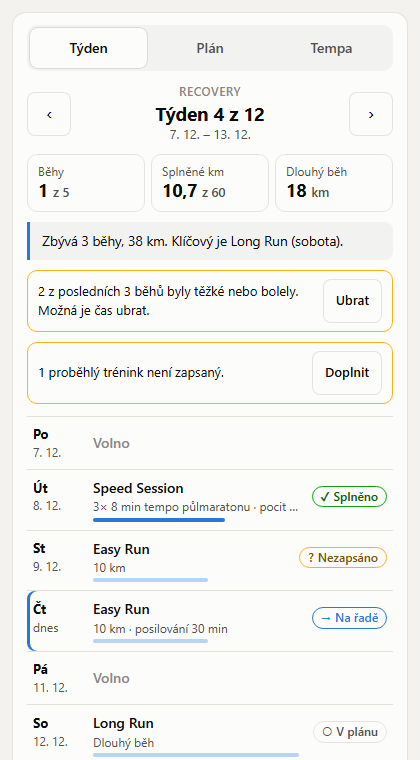
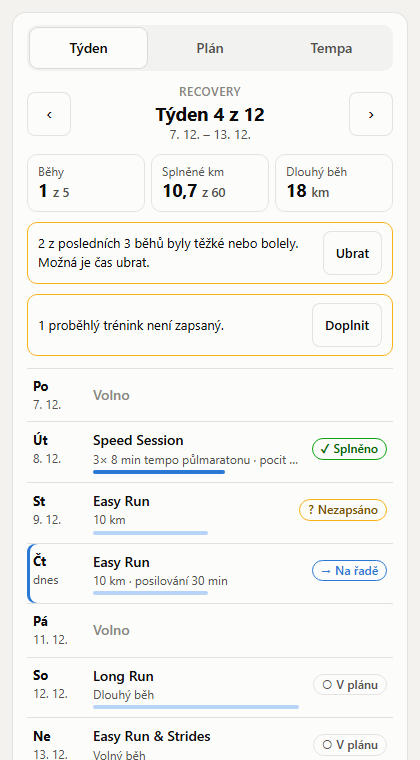
Remove the summary line from the week card too

diff --git a/src/connector/views.ts b/src/connector/views.ts
@@ -129,11 +129,10 @@ export function weekView(ws: Workspace, input: z.infer<typeof weekViewInput>, no
   const fatigue = start === weekStartOf(c.today) ? fatigueOf(ws.notes, c.today) : null;
   const label = !mapping ? 'mimo plán' : mapping.sourceWeek == null ? 'pauza' : `týden ${mapping.sourceWeek} z ${template?.weeks.length ?? '?'}`;
   const next = days.flatMap((d) => d.workouts).find((w) => w.date >= c.today && w.status === 'scheduled' && w.type !== 'rest');
-  const summary = weekSummary(days.flatMap((d) => d.workouts), c.today);
   return {
     ok: true,
-    text: `Zobrazen týden od ${start} (${label}): splněno ${stats.unitsDone} z ${stats.units} běhů, tj. ${String(stats.doneKm).replace('.', ',')} z ${String(stats.plannedKmMin).replace('.', ',')}${stats.plannedKmMax !== stats.plannedKmMin ? `–${String(stats.plannedKmMax).replace('.', ',')}` : ''} km podle plánu (ne naměřeno).${next ? ` Nejbližší jednotka: ${next.title} ${next.date}.` : ''}${stats.unrecorded ? ` Nezapsáno: ${stats.unrecorded} proběhlých běhů; nabídni doplnění (podle Stravy, pokud je připojená) jedním voláním set_statuses.` : ''}${summary.length ? ` Shrnutí v kartě: ${summary.join(' ')}` : ''}${fatigue ? ` Únava: ${fatigue.text} Zeptej se, jak se cítí, a nabídni lehčí zbytek týdne; rozpis měň jen se souhlasem${fatigue.kind === 'pain' ? ', při bolesti doporuč ubrat a nechat se vyšetřit' : ''}.` : ''}`,
-    data: { view: 'week', planName: c.planName, today: c.today, weekStart: start, label, daysToRace: ws.profile.raceDate && ws.profile.raceDate >= c.today ? diffDays(ws.profile.raceDate, c.today) : null, fatigue, summary, hasPrev: c.activation.mapping.some((m) => m.weekStart < start), hasNext: c.activation.mapping.some((m) => m.weekStart > start), phase: source?.phase ?? null, authorNote: source?.note ?? null, isCurrent: start === weekStartOf(c.today), days, stats, nextId: next?.id ?? null },
+    text: `Zobrazen týden od ${start} (${label}): splněno ${stats.unitsDone} z ${stats.units} běhů, tj. ${String(stats.doneKm).replace('.', ',')} z ${String(stats.plannedKmMin).replace('.', ',')}${stats.plannedKmMax !== stats.plannedKmMin ? `–${String(stats.plannedKmMax).replace('.', ',')}` : ''} km podle plánu (ne naměřeno).${next ? ` Nejbližší jednotka: ${next.title} ${next.date}.` : ''}${stats.unrecorded ? ` Nezapsáno: ${stats.unrecorded} proběhlých běhů; nabídni doplnění (podle Stravy, pokud je připojená) jedním voláním set_statuses.` : ''}${fatigue ? ` Únava: ${fatigue.text} Zeptej se, jak se cítí, a nabídni lehčí zbytek týdne; rozpis měň jen se souhlasem${fatigue.kind === 'pain' ? ', při bolesti doporuč ubrat a nechat se vyšetřit' : ''}.` : ''}`,
+    data: { view: 'week', planName: c.planName, today: c.today, weekStart: start, label, daysToRace: ws.profile.raceDate && ws.profile.raceDate >= c.today ? diffDays(ws.profile.raceDate, c.today) : null, fatigue, hasPrev: c.activation.mapping.some((m) => m.weekStart < start), hasNext: c.activation.mapping.some((m) => m.weekStart > start), phase: source?.phase ?? null, authorNote: source?.note ?? null, isCurrent: start === weekStartOf(c.today), days, stats, nextId: next?.id ?? null },
   };
 }
 
@@ -358,30 +357,6 @@ export function resultView(ws: Workspace, input: z.infer<typeof resultViewInput>
       score, estimate, verdict: { distance, pace, lapsInTarget: inTarget, steady },
     },
   };
-}
-
-// ---------- Shrnutí karet ----------
-
-const DOW_CS = ['pondělí', 'úterý', 'středa', 'čtvrtek', 'pátek', 'sobota', 'neděle'];
-const kmText = (n: number) => String(Math.round(n * 10) / 10).replace('.', ',');
-const plural = (n: number, one: string, few: string, many: string) => (n === 1 ? one : n > 1 && n < 5 ? few : many);
-type Card = ReturnType<typeof workoutCard>;
-
-/** Týden: co zbývá a který trénink je klíčový. */
-function weekSummary(cards: Card[], today: string): string[] {
-  const runs = cards.filter((w) => !NOT_RUN.has(w.type));
-  const left = runs.filter((w) => w.status === 'scheduled' && w.date >= today);
-  if (!runs.length) return [];
-  if (!left.length) {
-    const done = runs.filter((w) => w.status === 'completed' || w.status === 'partial').length;
-    return [runs[runs.length - 1].date < today || done === runs.length ? `Týden je za tebou: splněno ${done} z ${runs.length} běhů.` : 'Na tento týden už nic nezbývá.'];
-  }
-  const rank = (w: Card) => (w.type === 'race' ? 4 : w.type === 'speed' || w.type === 'tempo' ? 3 : w.type === 'long' ? 2 : 1);
-  const key = [...left].sort((a, b) => rank(b) - rank(a) || a.date.localeCompare(b.date))[0];
-  const out = [`Zbývá ${left.length} ${plural(left.length, 'běh', 'běhy', 'běhů')}, ${kmText(left.reduce((s, w) => s + w.kmMax, 0))} km.`];
-  const kind = key.type === 'race' ? 'závod' : key.type === 'long' ? 'dlouhý běh' : key.type === 'tempo' ? 'tempový běh' : 'rychlý trénink';
-  if (rank(key) > 1) out.push(`Klíčový je ${kind}${key.kmMax ? ` ${kmText(key.kmMax)} km` : ''} (${key.date === today ? 'dnes' : DOW_CS[dowOf(key.date)]}).`);
-  return out;
 }
 
 // ---------- Odhad formy ----------

diff --git a/public/widget.html b/public/widget.html
@@ -128,7 +128,6 @@ th, td { padding: 5px 6px; border-bottom: 1px solid var(--grid); text-align: rig
 th { color: var(--ink2); font-weight: 600; }
 th:first-child, td:first-child { text-align: left; white-space: normal; }
 td small { color: var(--ink2); font-size: 11.5px; }
-.summary { margin: 10px 0 0; padding: 9px 12px; border-left: 3px solid var(--s1); border-radius: 0 8px 8px 0; background: var(--wash); color: var(--ink); font-size: 13.5px; line-height: 1.45; }
 .est { display: flex; align-items: baseline; gap: 8px; margin-top: 8px; padding: 8px 12px; border-radius: 10px; background: var(--wash); font-size: 13px; color: var(--ink2); }
 .est b { color: var(--ink); font-size: 15px; }
 td .warn-mark { color: var(--warn-ink); font-weight: 650; }
@@ -428,10 +427,6 @@ td .ok { color: var(--good-ink); font-size: 15px; font-weight: 700; }
     return h + hints([['Další plán', strava ? 'Postav mi další plán podle mé Stravy a toho, co o mně víš.' : 'Postav mi další plán podle toho, co o mně víš. Řeknu ti, kolik teď běhám.'], ['Nahrát plán', 'Mám nový plán v dokumentu, přiložím ho.'], ['Volnější týdny', 'Navrhni mi dva volnější týdny na odpočinek.']]);
   }
 
-  // Shrnutí spočítané konektorem: fakta, která jinak musel vyčíst Claude do chatu.
-  function summaryBox(list) {
-    return list && list.length ? '<p class="summary">' + list.map(esc).join(' ') + '</p>' : '';
-  }
   // Forma: odhady VDOT z hodnocených běhů a předpověď na cílovou vzdálenost.
   function fitnessBlock(f, width) {
     var dist = num(Math.round(f.distanceM / 100) / 10) + ' km';
@@ -551,7 +546,6 @@ td .ok { color: var(--good-ink); font-size: 15px; font-weight: 700; }
     h += '<div class="tile"><div class="k">Splněné km</div><div class="v">' + num(s.doneKm) + ' <small>z ' + Math.round(s.plannedKmMax) + '</small></div></div>';
     if (s.longRunKm != null) h += '<div class="tile"><div class="k">Dlouhý běh</div><div class="v">' + num(s.longRunKm) + ' <small>km</small></div></div>';
     h += '</div>';
-    h += summaryBox(d.summary);
     if (d.fatigue) h += '<div class="note warn" style="margin:10px 0 0"><span>' + esc(d.fatigue.text) + ' Možná je čas ubrat.</span><button type="button" data-say="' + esc(d.fatigue.kind === 'pain' ? 'Poslední běhy mě bolí. Co s tím a jak upravit zbytek týdne?' : 'Poslední běhy byly těžké. Navrhni lehčí zbytek týdne.') + '">Ubrat</button></div>';
     if (s.unrecorded) h += '<div class="note warn" style="margin:10px 0 0"><span>' + s.unrecorded + ' ' + plural(s.unrecorded, 'proběhlý trénink není zapsaný', 'proběhlé tréninky nejsou zapsané', 'proběhlých tréninků není zapsaných') + '.</span><button type="button" data-say="' + esc(strava ? 'Doplň splnění tohoto týdne podle Stravy jedním zápisem.' : 'Pomoz mi doplnit splnění tohoto týdne. Zeptej se mě, co jsem odběhl.') + '">Doplnit</button></div>';
     h += '<ul class="days">';

diff --git a/src/connector/connector.test.ts b/src/connector/connector.test.ts
@@ -639,8 +639,6 @@ describe('konektor Run Tracker', () => {
     expect(result.data.estimate.vdot).toBeGreaterThan(50);
     expect(result.data.estimate.vdot).toBeLessThan(56);
     expect(result.text).toContain('Odhad formy: VDOT');
-    const wk = (await call('show_week', { date: '2026-11-20' })).data;
-    expect(wk.summary.join(' ')).toMatch(/Zbývá [0-9]+ běh/);
     // za větru se odhad nedělá: pomalejší úseky by formu podhodnotily
     expect((await call('show_result', { workoutId: id, run: { distanceM: 9000, movingSec: 2900, reps }, conditions: ['wind'] })).data.estimate).toBeNull();
     expect((await call('show_plan')).data.fitness).toBeNull();
